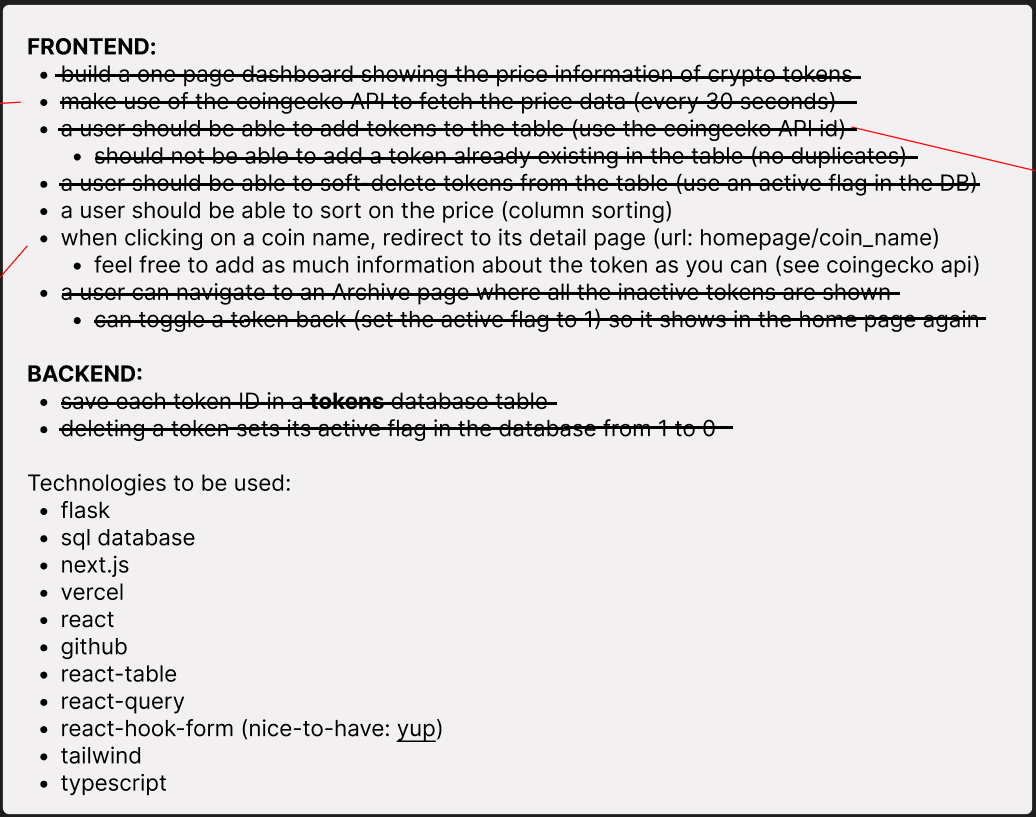
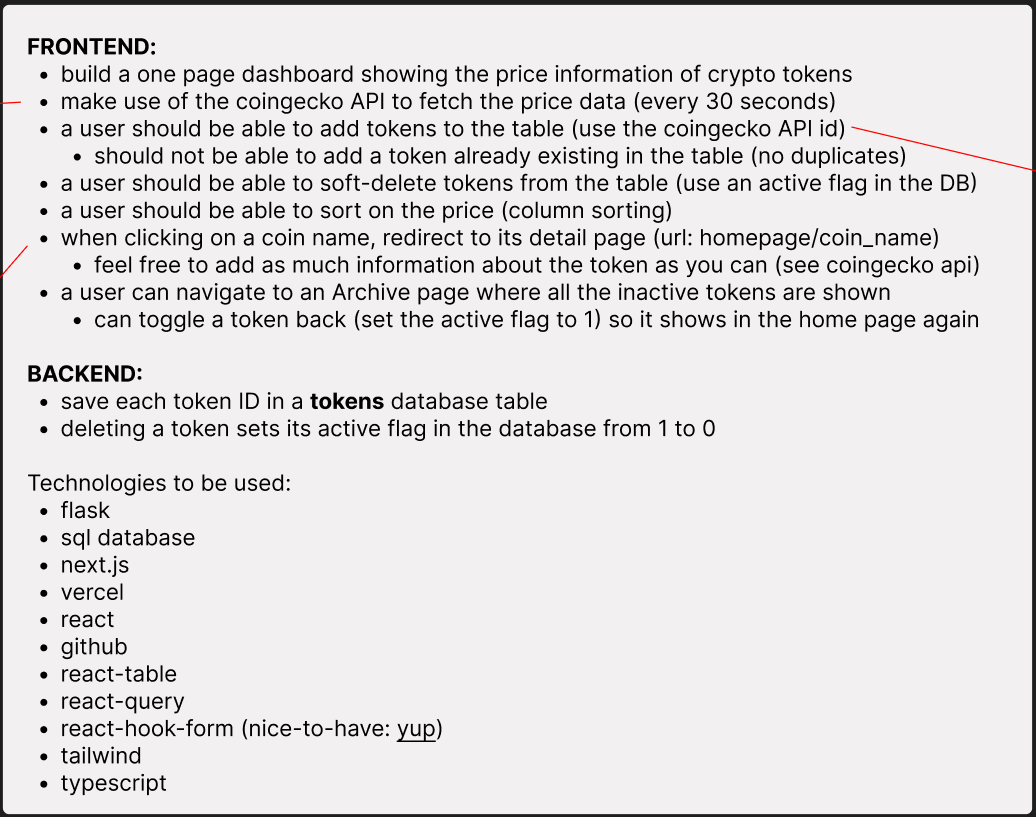
final commit

diff --git a/Components/OverviewTable.tsx b/Components/OverviewTable.tsx
@@ -4,11 +4,13 @@ import {
   createColumnHelper,
   getCoreRowModel,
   flexRender,
+  getSortedRowModel,
+  SortingState,
   useReactTable,
 } from "@tanstack/react-table";
 
 import WeekChart from "@/Components/WeekChart";
-import { useMemo } from "react";
+import { useMemo, useState } from "react";
 import TrashCanIcon from "./UI/Icons/TrashCanIcon";
 import Link from "next/link";
 
@@ -93,13 +95,28 @@ const OverviewTable: React.FC<{
           </Link>
         ),
       }),
-      columnHelper.accessor("currentPrice", {
-        header: "Price",
+
+
+      columnHelper.accessor("currentPrice", {        
+        header: "Price",        
         cell: (props) => {
           const val: number = props.row.getValue("currentPrice");
           return <div>${val.toLocaleString("en-US")}</div>;
         },
       }),
+
+      // {
+      //   header: "price",
+      //   accessor: "currentPrice",
+      //   cell: (props: any) => {
+      //     const val: number = props.row.getValue("currentPrice");
+      //     if (val !== undefined) {
+      //       return <div>${val.toLocaleString("en-US")}</div>;
+      //     }
+      //     return <div>N/A</div>;
+      //   },
+      // },
+
       columnHelper.accessor("trendHourly", {
         header: "1h",
         cell: (props) => {
@@ -161,10 +178,17 @@ const OverviewTable: React.FC<{
     [columnHelper, removeToken]
   );
 
+  const [sorting, setSorting] = useState<SortingState>([])
+
   const reactTable = useReactTable({
     data: data,
     columns: defaultColumns,
+    state: {
+      sorting,
+    },
+    onSortingChange: setSorting,
     getCoreRowModel: getCoreRowModel(),
+    getSortedRowModel: getSortedRowModel(),
     // debugAll: true,
   });
 
@@ -173,35 +197,59 @@ const OverviewTable: React.FC<{
   }
 
   return (
-    <table className="w-[1280px] border-collapse font-bold leading-10 text-right">
-      <thead>
-        {reactTable.getHeaderGroups().map((headerGroup) => (
-          <tr key={headerGroup.id} className="border-t border-gray-400">
-            {headerGroup.headers.map((header) => (
-              <th key={header.id} className="">
-                {header.isPlaceholder
-                  ? null
-                  : flexRender(
-                      header.column.columnDef.header,
-                      header.getContext()
+    <div>
+      <table className="w-[1280px] border-collapse font-bold leading-10 text-right">
+        <thead>
+          {reactTable.getHeaderGroups().map((headerGroup) => (
+            <tr key={headerGroup.id} className="border-t border-gray-400">
+              {headerGroup.headers.map((header) => {
+                return (
+                  <th key={header.id} className="">
+                    {header.isPlaceholder ? null : (
+                      <div
+                        {...{
+                          className: header.column.getCanSort()
+                            ? "cursor-pointer select-none"
+                            : "",
+                          onClick: header.column.getToggleSortingHandler(),
+                        }}
+                      >
+                        {flexRender(
+                          header.column.columnDef.header,
+                          header.getContext()
+                        )}
+                        {{
+                          asc: " 🔼",
+                          desc: " 🔽",
+                        }[header.column.getIsSorted() as string] ?? null}
+                      </div>
                     )}
-              </th>
-            ))}
-          </tr>
-        ))}
-      </thead>
-      <tbody>
-        {reactTable.getRowModel().rows.map((row) => (
-          <tr key={row.id} className="border-t border-gray-400">
-            {row.getVisibleCells().map((cell) => (
-              <td key={cell.id}>
-                {flexRender(cell.column.columnDef.cell, cell.getContext())}
-              </td>
-            ))}
-          </tr>
-        ))}
-      </tbody>
-    </table>
+                  </th>
+                );
+              })}
+            </tr>
+          ))}
+        </thead>
+        <tbody>
+          {reactTable.getRowModel().rows.map((row) => {
+            return (
+              <tr key={row.id} className="border-t border-gray-400">
+                {row.getVisibleCells().map((cell) => {
+                  return (
+                    <td key={cell.id}>
+                      {flexRender(
+                        cell.column.columnDef.cell,
+                        cell.getContext()
+                      )}
+                    </td>
+                  );
+                })}
+              </tr>
+            );
+          })}
+        </tbody>
+      </table>
+    </div>
   );
 };
 

diff --git a/pages/index.tsx b/pages/index.tsx
@@ -9,12 +9,17 @@ import useUpateToken from "@/hooks/useUpateToken";
 import readCoinsMarkets from "@/ApiQueries/CoinGeckoApi/readCoinsMarkets";
 import parseCoinGeckoApiToken from "@/helpers/parseCoinGeckoApiToken";
 import OverviewTable from "@/Components/OverviewTable";
+// import useCoinGeckoTokens from "@/hooks/useCoinGeckoTokens";
+// import useMutateCoinGeckoTokens from "@/hooks/useMutateCoinGeckoTokens";
 
 const HomePage: React.FC<{}> = ({}) => {
   const [data, setData] = useState<Token[]>([]);
   const { data: tokens = [], error } = useTokens();
   const { mutate: updateTokenMutate } = useUpateToken(); // to archive (remove) token
   const { mutate: addTokenMutate } = useAddToken();
+
+  // const { data: coinGeckoTokens = [], error: coinGeckoApiError } = useCoinGeckoTokens([]);
+  // const { mutate: coinGeckoTokenMutate } = useMutateCoinGeckoTokens(); 
 
   useEffect(() => {
     if (tokens.length) {

diff --git a/hooks/useTokens.tsx b/hooks/useTokens.tsx
@@ -4,7 +4,11 @@ import { useQuery } from "@tanstack/react-query";
 
 const useTokens = () => {
   const getInactiveTokens = false;
-  return useQuery(["tokens"], () => readAllTokens(getInactiveTokens))
-}
+  return useQuery({
+    // refetchInterval: 2000,
+    queryKey: ["tokens"],
+    queryFn: () => readAllTokens(getInactiveTokens),
+  });
+};
 
 export default useTokens;

diff --git a/README.md b/README.md
@@ -1,5 +1,10 @@
 This is a [Next.js](https://nextjs.org/) project bootstrapped with [`create-next-app`](https://github.com/vercel/next.js/tree/canary/packages/create-next-app).
 
+## Purpose
+This application shows the current state of affairs of a list of tokens (cryptocurrency coins): how much they are worth, their price variation over the past week, past day and past hour. Clicking on any token reveals some details about the particular token. The information is taken from the coinGecko API.
+The user can customize the token list by adding/removing tokens. The application keeps track of this list in a sqlite database through an API written in Python (see below).
+Finally, the app keeps track of removed tokens on the /archive page. Removed tokens can be reactivated here.
+
 ## Instructions
 
 ### Install the client
@@ -66,36 +71,26 @@ Open [http://localhost:3000](http://localhost:3000) with your browser to see the
 
 
 ## Todo
-- finish coin detail page
-- check production build
 - take care of sorting in table
-- fix form input error msg CSS
-- provide CryptoGecko attribution ("powered by CryptoGecko")
+- take care of auto refetch for coin gecko db
+- provide CryptoGecko attribution ("powered by CoinGecko")
 
 ## Issues
 - find out why Vercel throws css away on publish
-- fix react query refetch interval thing
+- better react query refetch interval thing
 - fix "hidden" columns => check react-table docs (https://tanstack.com/table/v8/docs/api/core/table)
 
 ## Ideas
 - connect kairon.erland.info to frontend on Vercel: https://kairon-client.vercel.app/ ? https ?
 - show whether CoinGecko API is online or not
 
-## Done
-- take care of /archive page
-- fix bug (probably related to next js) where updates from queries never shop up on the page (production build)
-- fix react-query issue: new coins do not show up until refresh --> use invalidate query
-- db & api opnieuw maken met primary key & params
-- extract helper function from WeekCharts component -> moved to function that queries coinGecko
-- fix time delta calculation: go back exactly one week instead of "24 * 7" hours -> not used anymore
-- add garbage icon in frontend
-- add comma's to display of large numbers in table
-- add market cap value to token object
-- test what happens if CoinGecko APi gets request for non existent token => unknown tokens are silently ignored
-
 ## useful resources:
+
+### frontend:
 - https://tanstack.com/query/v4/docs/react/guides/query-functions
 - https://medium.com/doctolib/react-query-cachetime-vs-staletime-ec74defc483e
 - https://www.youtube.com/watch?v=Nm0inP3B_zs&list=PLC3y8-rFHvwjTELCrPrcZlo6blLBUspd2&index=2&ab_channel=Codevolution
 
+### backend:
+- https://www.youtube.com/watch?v=PTZiDnuC86g&ab_channel=TraversyMedia
 
